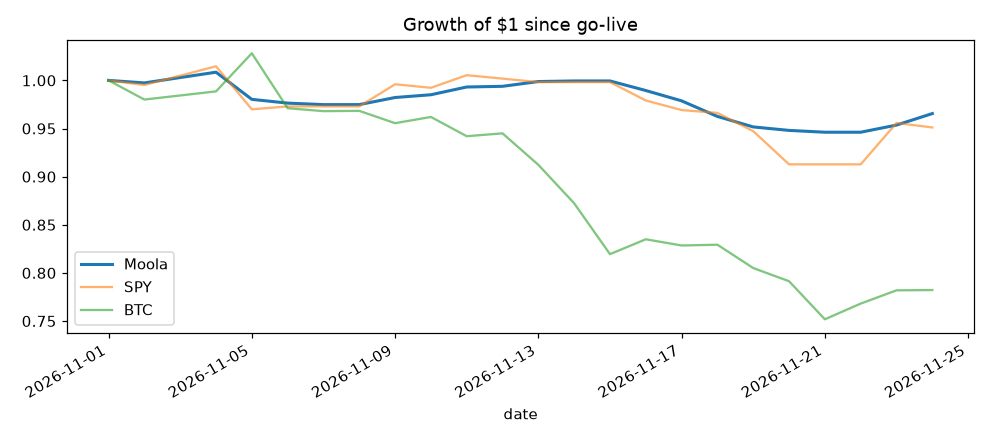
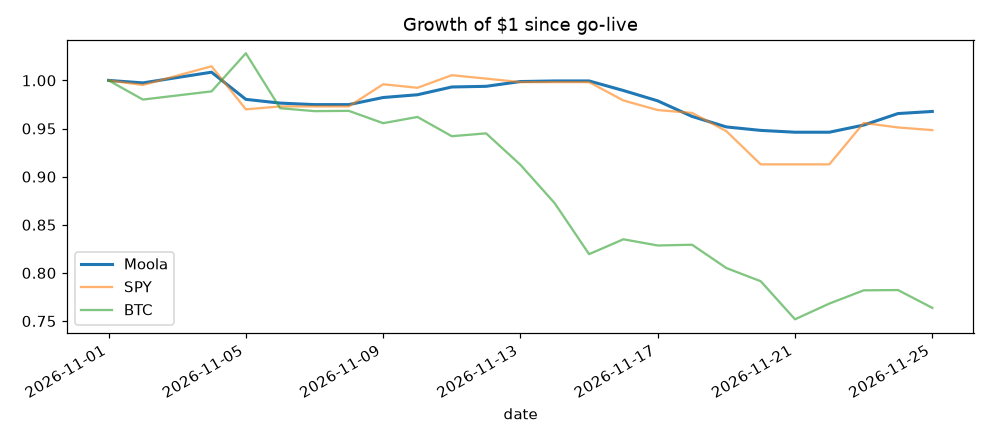
bot: daily run 2026-11-25

diff --git a/results_summary.md b/results_summary.md
@@ -1,55 +1,53 @@
 # Moola results summary
 
-_Generated 2026-11-24 21:30 UTC. Auto-generated by `moola.report`, do not edit._
+_Generated 2026-11-25 21:30 UTC. Auto-generated by `moola.report`, do not edit._
 
 - **Strategy version:** v1
-- **Live since:** 2026-11-01 (23 runs)
-- **Equity:** $96,625.78 (cumulative P&L $-3,374.22)
-- **Exposure:** gross 75.31%, crypto 0.00%
+- **Live since:** 2026-11-01 (24 runs)
+- **Equity:** $96,844.38 (cumulative P&L $-3,155.62)
+- **Exposure:** gross 74.98%, crypto 0.00%
 
 ## Performance
 
 | window | return | Sharpe | max DD | SPY | BTC |
 |---|---|---|---|---|---|
-| last 7 days | -1.35% | -3.57 | -3.33% | -1.86% | -5.59% |
-| last 30 days | -3.44% | -3.12 | -6.18% | -4.89% | -21.78% |
-| since start | -3.44% | -3.12 | -6.18% | -4.89% | -21.78% |
+| last 7 days | 0.54% | 1.93 | -1.70% | -1.85% | -7.91% |
+| last 30 days | -3.23% | -2.84 | -6.18% | -5.16% | -23.63% |
+| since start | -3.23% | -2.84 | -6.18% | -5.16% | -23.63% |
 
 ## By strategy version
 
 | version | from | to | runs | return | Sharpe |
 |---|---|---|---|---|---|
-| v1 | 2026-11-01 | 2026-11-24 | 23 | -3.44% | -3.12 |
+| v1 | 2026-11-01 | 2026-11-25 | 24 | -3.23% | -2.84 |
 
-## Current positions (2026-11-24)
+## Current positions (2026-11-25)
 
 | symbol | market value | weight | unrealized P&L |
 |---|---|---|---|
-| XLV | $24,531 | 25.39% | $-85 (-0.34%) |
-| XLF | $24,131 | 24.97% | $273 (1.15%) |
-| XLE | $24,108 | 24.95% | $251 (1.05%) |
+| XLF | $24,348 | 25.14% | $491 (2.06%) |
+| XLE | $24,232 | 25.02% | $375 (1.57%) |
+| XLV | $24,034 | 24.82% | $-204 (-0.84%) |
 
 ## Approximate P&L attribution since start
 
 | symbol | P&L |
 |---|---|
-| XLF | $-1,365 |
-| XLE | $-1,207 |
-| XLV | $-720 |
+| XLF | $-1,147 |
+| XLE | $-1,083 |
+| XLV | $-842 |
 | BTC/USD | $-388 |
 | SPY | $-349 |
 | ETH/USD | $0 |
 
 ## Execution
 
-- Orders submitted: 55
+- Orders submitted: 57
 - Orders rejected/errored: 0
-- Fills: 55, mean slippage -13.8 bps (worst 353.1 bps)
+- Fills: 56, mean slippage -12.4 bps (worst 353.1 bps)
 
 ## Risk flags (last 14 runs)
 
-- 2026-11-11: capped XLF from 27.5% to 25%
-- 2026-11-11: capped SPY from 30.1% to 25%
 - 2026-11-12: capped XLV from 35.4% to 25%
 - 2026-11-12: capped XLE from 26.1% to 25%
 - 2026-11-12: capped XLF from 38.5% to 25%
@@ -83,6 +81,9 @@ _Generated 2026-11-24 21:30 UTC. Auto-generated by `moola.report`, do not edit._
 - 2026-11-24: capped XLV from 35.0% to 25%
 - 2026-11-24: capped XLF from 38.0% to 25%
 - 2026-11-24: capped XLE from 27.1% to 25%
+- 2026-11-25: capped XLV from 34.9% to 25%
+- 2026-11-25: capped XLF from 38.0% to 25%
+- 2026-11-25: capped XLE from 27.1% to 25%
 
 ## Data/execution errors (last 14 runs)
 
